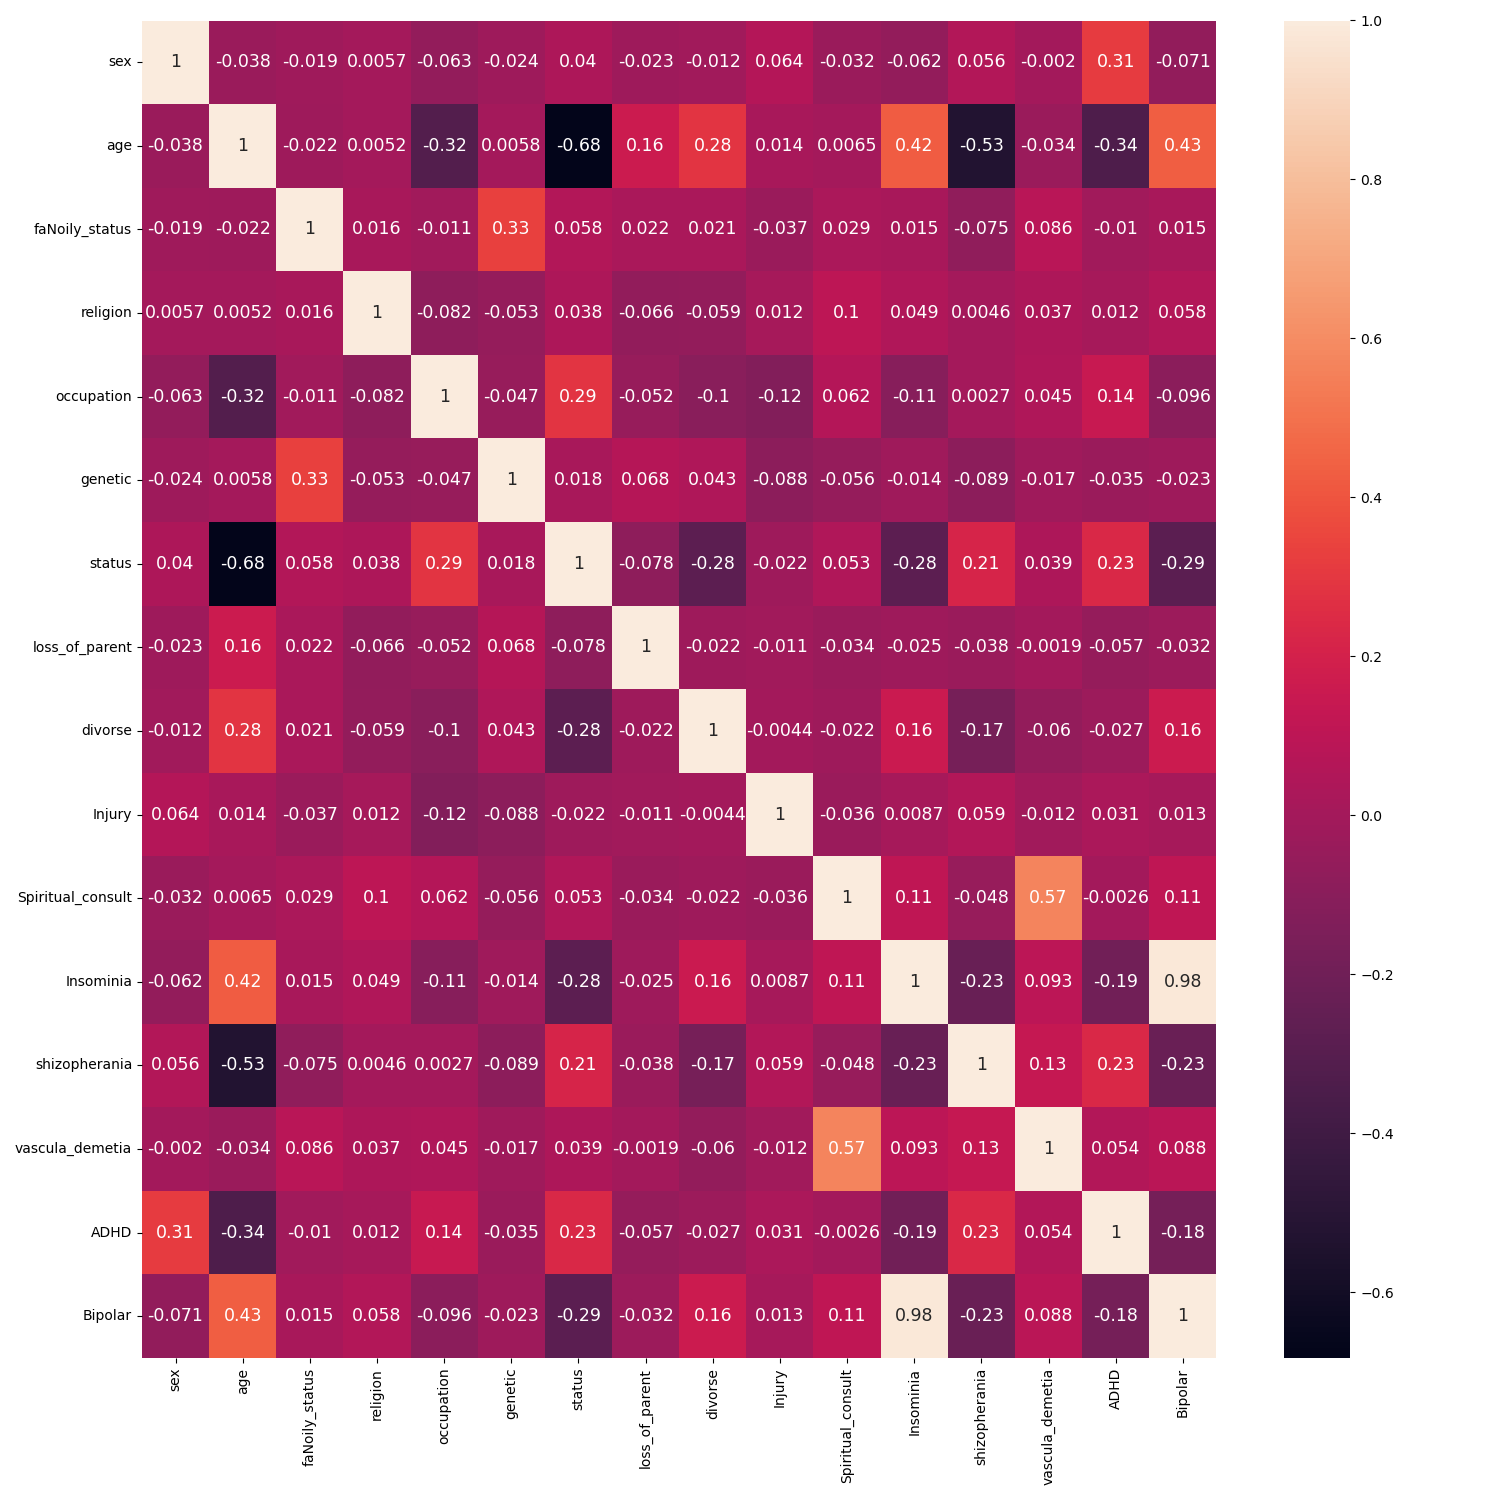
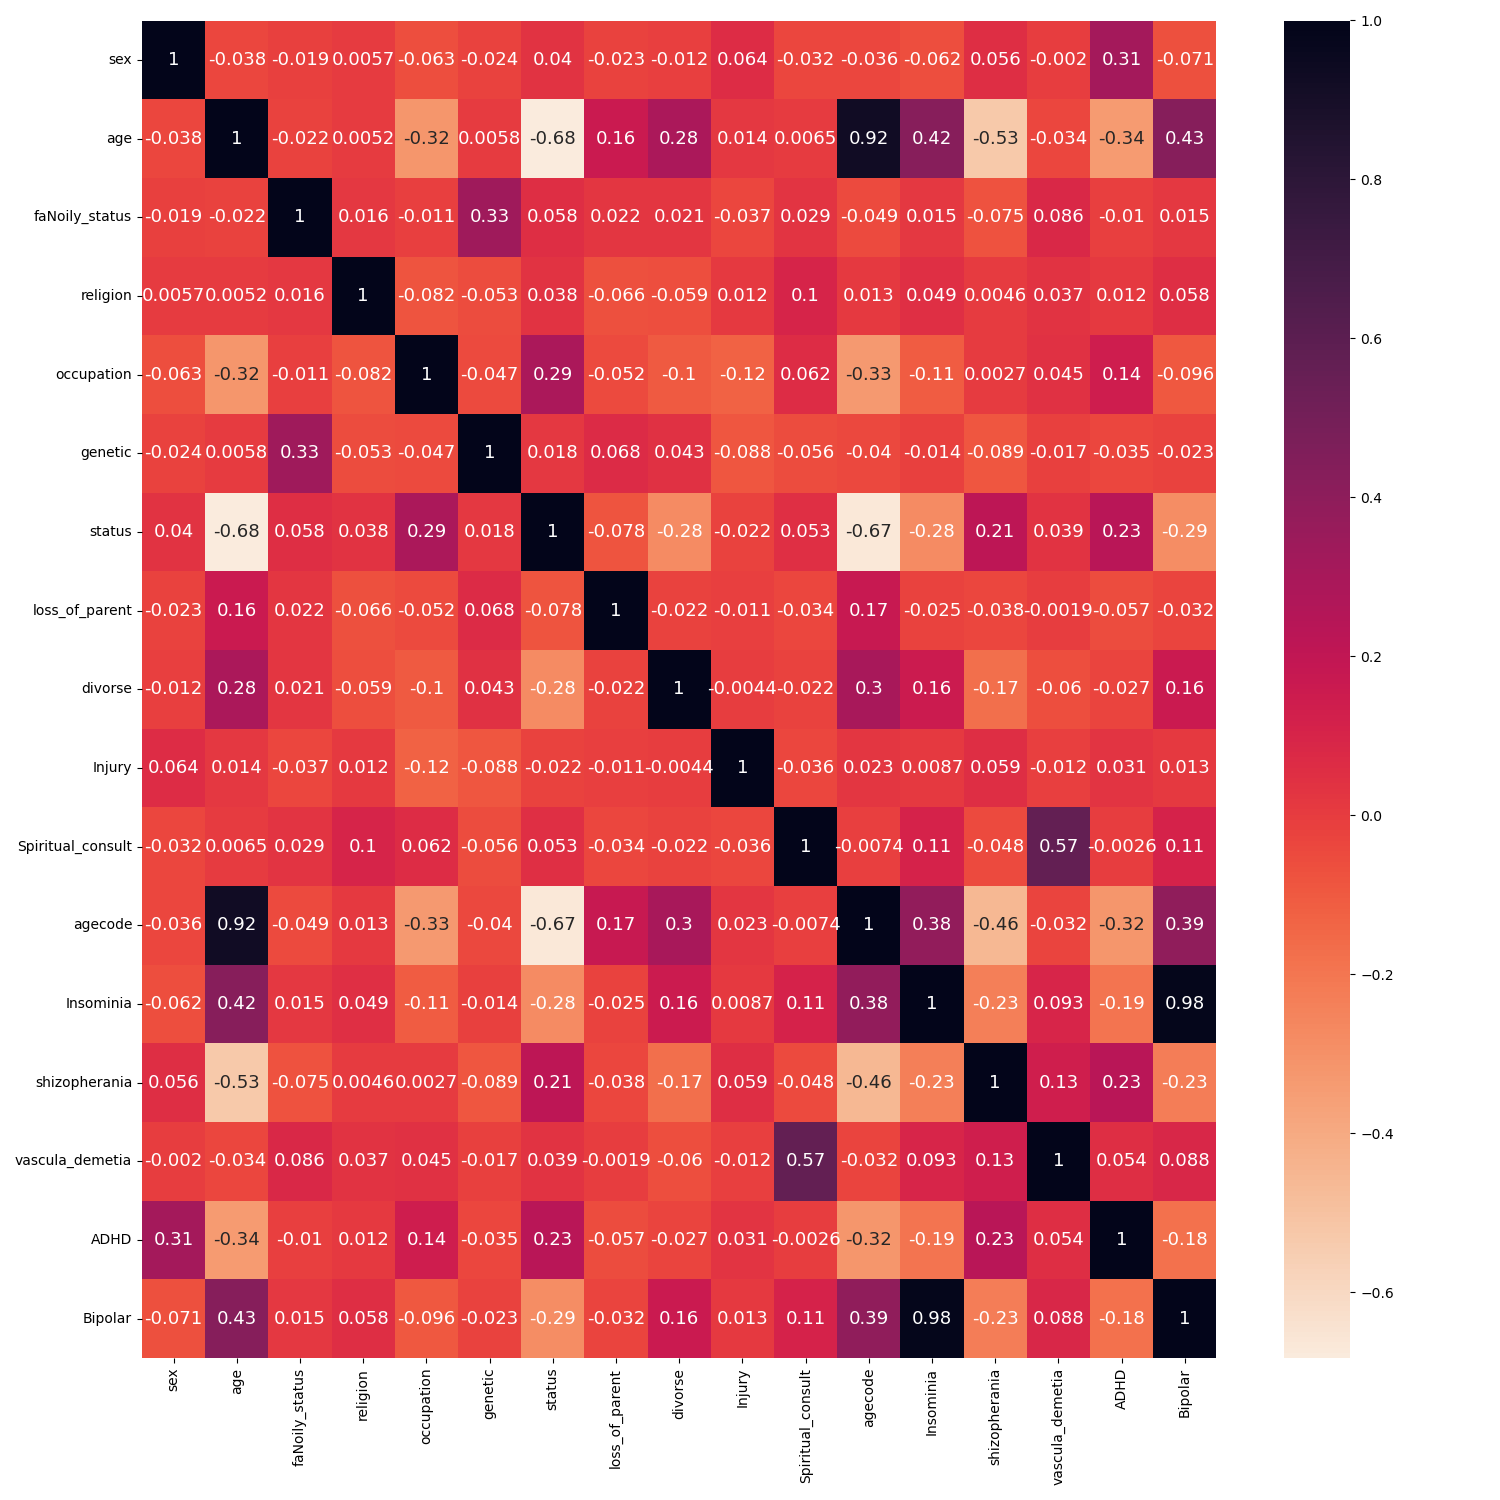
edit to correlation matrix code

diff --git a/src/plots.py b/src/plots.py
@@ -78,13 +78,14 @@ def plot_data_distribution(df):
 
 def plot_data_correlation(df):
 	# Figure 9 correlation
-	df_1 = df.drop(['Insominia', 'shizopherania', 'vascula_demetia', 'ADHD', 'Bipolar', 'target', 'agecode'], axis=1)
+	df_1 = df.drop(['Insominia', 'shizopherania', 'vascula_demetia', 'ADHD', 'Bipolar', 'target'], axis=1)
 	df_1.rename(columns={'Insominia_enc': 'Insominia', 'shizopherania_enc': 'shizopherania', 'vascula_demetia_enc':'vascula_demetia', 'ADHD_enc':'ADHD', 'Bipolar_enc':'Bipolar'}, inplace=True)
 	feature_names = df_1.columns.tolist()
 
 	corrMatrix = df_1.corr()
 	fig, ax = plt.subplots(figsize=(15,15))
-	sn.heatmap(corrMatrix, annot=True, xticklabels=feature_names, yticklabels=feature_names, annot_kws={"fontsize":12.5})
+	cmap = sn.cm.rocket_r
+	sn.heatmap(corrMatrix, annot=True, cmap=cmap, xticklabels=feature_names, yticklabels=feature_names, annot_kws={"fontsize":13})
 	# plt.show()
 	plt.tight_layout()
 	plt.savefig("figure/DataCorrelation.png")
